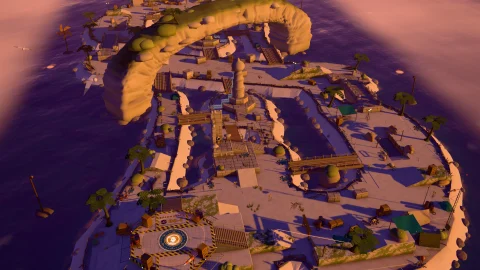
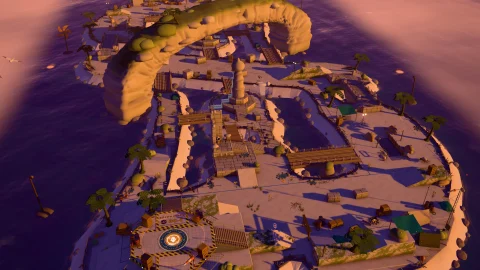
Spirhalite Islands, the stretch: the tower track reordered — through the dig's trench and over the dig bridge (widened to 4 m) onto the tide-pool islet's shelf, checkpoint 2 there at 110.9 of 177.3 m (63 %), then the detour loop after it: off the shelf, west along the lagoon's south beach, round the

diff --git a/src/world/stages/spirhalite/props.js b/src/world/stages/spirhalite/props.js
@@ -182,8 +182,8 @@ const RAW = [
   { type: 'spirhalite_ropebridge', pos: [ROPE.x, 0, ROPE.z0], rotY: Math.PI, L: +(ROPE.z0 - ROPE.z1).toFixed(2), y0: 0, y1: 1.3, w: ROPE.w, seed: 61 },
   { type: 'spirhalite_watchpost', pos: [(WATCH.post[0] + WATCH.post[1]) / 2, 1.3, (WATCH.post[2] + WATCH.post[3]) / 2], rotY: 0, w: WATCH.post[1] - WATCH.post[0], d: WATCH.post[3] - WATCH.post[2], y0: 1.3, y1: 2.5,
     stub: WATCH.stub.map(([x0, x1, z0, z1, y0, y1]) => { const cx = (WATCH.post[0] + WATCH.post[1]) / 2, cz = (WATCH.post[2] + WATCH.post[3]) / 2; return [x0 - cx, x1 - cx, z0 - cz, z1 - cz, y0 - 1.3, y1 - 1.3]; }) },
-  { type: 'spirhalite_rockpool', pos: [-6.2, 0, -39.6], rotY: 0.3, w: 1.9, d: 1.2, seed: 3 },
-  { type: 'spirhalite_rockpool', pos: [-5.3, 0, -44.2], rotY: -0.5, w: 1.3, d: 0.9, seed: 7 },
+  { type: 'spirhalite_rockpool', pos: [-5.2, 0, -43.4], rotY: 0.3, w: 1.9, d: 1.2, seed: 3 },
+  { type: 'spirhalite_rockpool', pos: [-9.6, 0, -45.9], rotY: -0.5, w: 1.3, d: 0.9, seed: 7 },
   { type: 'spirhalite_rockpool', pos: [0.5, 1.3, -38.25], rotY: 0.1, w: 1.5, d: 0.95, seed: 11 },
   { type: 'spirhalite_rockpool', pos: [7.1, 0, -43.9], rotY: 1.2, w: 1.2, d: 0.8, seed: 5 },
   { type: 'spirhalite_rock', pos: [-6.0, 0, -36.9], rotY: 0.8, w: 1.5, h: 0.8, seed: 31, moss: true },
@@ -191,7 +191,7 @@ const RAW = [
   { type: 'spirhalite_stones', pos: [-5.1, 0, -29.0], rotY: 0, nosnap: true, pts: [[0, 0], [0.3, -0.9], [-0.2, -1.9], [0.2, -2.8], [-0.1, -3.8], [0.35, -4.7]] },
   { type: 'spirhalite_kelp', pos: [-4.4, 0, -33.0], rotY: 1.6, seed: 12, L: 1.4 },
   { type: 'spirhalite_grass', pos: [0.9, 1.3, -41.2], n: 4, r: 0.5, seed: 31 },
-  { type: 'spirhalite_pompoms', pos: [-6.6, 0, -42.0], n: 5, seed: 31 },
+  { type: 'spirhalite_pompoms', pos: [-6.2, 0, -44.8], n: 5, seed: 31 },
   { type: 'spirhalite_lantern', pos: [-1.0, 1.3, -34.4], rotY: -0.4 },
 
   // the shelf is the watch-post's old stone terrace on the islet's rocks: boulders along its foot at the notch and on
@@ -199,7 +199,7 @@ const RAW = [
   ...[[-0.8, -33.5, 1.3, 0.55], [1.9, -33.4, 1.0, 0.5], [3.6, -33.3, 1.5, 0.6], [5.4, -33.5, 1.2, 0.6], [6.5, -35.2, 1.1, 0.7], [6.6, -37.4, 1.4, 0.6], [6.5, -39.8, 1.0, 0.7], [6.5, -41.6, 1.2, 0.55]]
     .map(([x, z, w, h], i) => ({ type: 'spirhalite_rock', pos: [x, -0.35, z], rotY: i * 1.3, w, h, seed: 61 + i, nocol: true, nosnap: true, color: '#b5ae9f' })),
   { type: 'spirhalite_rock', pos: [-1.9, 0, -35.4], rotY: 0.4, w: 0.8, h: 0.6, seed: 71, nocol: true },
-  { type: 'spirhalite_shrub', pos: [5.2, 1.3, -41.4], rotY: 0.3, w: 1.0, h: 0.7, seed: 21, nocol: true },
+  { type: 'spirhalite_shrub', pos: [-0.9, 1.3, -41.6], rotY: 0.3, w: 1.0, h: 0.7, seed: 21, nocol: true },
   { type: 'spirhalite_grass', pos: [-0.3, 0, -45.9], n: 5, r: 0.7, seed: 33 },
   { type: 'spirhalite_pompoms', pos: [3.0, 0, -44.9], n: 5, seed: 33 },
 
@@ -212,16 +212,16 @@ const RAW = [
   { type: 'spirhalite_spoil', pos: [-30.0, 0, -40.2], rotY: Math.PI / 2 - 0.08, L: 2.3, W: 1.3, h: 1.0, seed: 5 },
   { type: 'spirhalite_spoil', pos: [-24.5, 0, -35.2], rotY: Math.PI / 2 + 0.1, L: 2.4, W: 1.3, h: 1.05, seed: 8 },
   { type: 'spirhalite_sieve', pos: [-24.5, 0, -41.2], rotY: Math.PI / 2 },
-  { type: 'spirhalite_barrow', pos: [-24.4, 0, -44.4], rotY: -Math.PI / 2 + 0.3 },
+  { type: 'spirhalite_barrow', pos: [-31.0, 0, -43.8], rotY: -Math.PI / 2 + 0.3 },
   { type: 'spirhalite_tarp', pos: [-22.6, 0, -27.7], rotY: 0.04, w: 3.2, d: 2.8, h: 2.3 },
   { type: 'spirhalite_table', pos: [-22.6, 0, -27.9], rotY: 0.04 },
   { type: 'spirhalite_crates', pos: [-20.4, 0, -29.6], rotY: 0.3, layout: [[0, 0, 0, 0], [0.05, 0, 1, 0.08]] },
-  { type: 'spirhalite_worklight', pos: [-26.8, 0, -28.9], rotY: -2.6, h: 2.3, tilt: 0.55 },
+  { type: 'spirhalite_worklight', pos: [-25.0, 0, -30.4], rotY: -2.9, h: 2.3, tilt: 0.55 },
   { type: 'spirhalite_worklight', pos: [-31.8, 1.3, -48.8], rotY: 0.2, h: 2.2, tilt: 0.5 },
   { type: 'spirhalite_survey', pos: [-20.2, 0, -36.4], rotY: 1.9 },
   { type: 'spirhalite_lantern', pos: [-30.0, 0, -37.0], rotY: 0.2 },
   { type: 'spirhalite_lantern', pos: [-24.5, 0, -38.3], rotY: 3.3 },
-  { type: 'spirhalite_pathlights', pos: [0, 0, 0], rotY: 0, nosnap: true, pts: [[-24.6, -31.4], [-24.4, -45.3], [-30.1, -30.4], [-30.1, -43.4], [-5.9, -35.0], [-5.6, -46.2], [2.4, -46.6]] },
+  { type: 'spirhalite_pathlights', pos: [0, 0, 0], rotY: 0, nosnap: true, pts: [[-24.6, -31.4], [-24.4, -45.3], [-30.1, -30.4], [-30.1, -43.4], [-5.9, -35.0], [-5.6, -45.4], [2.4, -45.6]] },
   { type: 'spirhalite_rockpool', pos: [-35.2, 0, -33.6], rotY: 1.4, w: 1.3, d: 0.9, seed: 13 },
   { type: 'spirhalite_rockpool', pos: [-35.1, 0, -41.4], rotY: 1.2, w: 1.5, d: 0.9, seed: 17 },
   { type: 'spirhalite_palm', pos: [-35.0, 0, -37.6], rotY: 0, h: 3.9, lean: 1.2, seed: 27 },
@@ -233,7 +233,7 @@ const RAW = [
   { type: 'spirhalite_grass', pos: [1.2, 0, -50.2], n: 6, r: 0.9, seed: 57 },
   { type: 'spirhalite_grass', pos: [-6.4, 0, -51.6], n: 4, r: 0.6, seed: 58 },
   { type: 'spirhalite_pompoms', pos: [-1.6, 0, -49.0], n: 5, seed: 57 },
-  { type: 'spirhalite_kelp', pos: [-9.8, 0, -49.2], rotY: 0.1, seed: 16, L: 1.8 },
+  { type: 'spirhalite_kelp', pos: [-12.6, 0, -46.0], rotY: 0.1, seed: 16, L: 1.8 },
 
   // the spoil heap's faces softened by sand slumped against them (dressing: no collider)
   { type: 'spirhalite_spoil', pos: [-30.9, 0, -49.8], rotY: 0.05, L: 2.6, W: 1.0, h: 0.8, seed: 12, nocol: true },
@@ -266,7 +266,7 @@ const RAW = [
   // and camp crates along the camp islet's north beach (the tower's run between them), a rock on the camp's crest, a
   // rock on the neck and on the spit's root
   { type: 'spirhalite_crates', pos: [-29.3, 1.3, -48.3], rotY: 0.15, layout: [[0, 0, 0, 0], [0.04, 0, 1, 0.1]] },
-  { type: 'spirhalite_rock', pos: [-13.2, -0.3, -44.5], rotY: 0.5, w: 1.9, h: 1.1, seed: 47, moss: true, nosnap: true },
+  { type: 'spirhalite_rock', pos: [-13.2, -0.3, -43.1], rotY: 0.5, w: 1.4, h: 1.4, seed: 47, moss: true, nosnap: true },
   { type: 'spirhalite_crates', pos: [-18.6, 0, -54.6], rotY: 0.08, layout: [[0, 0, 0, 0], [1.02, 0.05, 0, 0.06], [0.5, 0.02, 1, 0.1]] },
   { type: 'spirhalite_drums', pos: [-7.8, 0, -55.1], rotY: 0.4 },
   { type: 'spirhalite_rock', pos: [-16.54, 2.5, -61.2], rotY: 0.7, w: 1.3, h: 0.95, seed: 49, moss: true },
@@ -345,9 +345,9 @@ const pairs = (pts) => pts.slice(1).map((q, i) => [pts[i], q]);
 let seedK = 100;
 for (const [a, b] of [
   ...pairs([[-32.6, -23.2], ...DIG_SEA, sh(-35.4, -31.4)]),
-  ...pairs([TIDE_W[3], TIDE_W[4], ...DIG_LAGOON.slice(0, 3)]), ...pairs([...DIG_LAGOON.slice(4), [-17.8, -24.4]]),
-  [[-6.58, -43.8], TIDE_W[3]], [DIG_LAGOON[2], [-18.4, -43.8]], [[-19.08, -40.2], DIG_LAGOON[4]],   // (parted for the dig bridge's landings, z −43.6 … −40.4)
-  [TIDE_W[0], [-8.04, -40.2]],
+  ...pairs([TIDE_W[2], TIDE_W[3], ...DIG_LAGOON.slice(0, 4)]), ...pairs([...DIG_LAGOON.slice(5), [-17.8, -24.4]]),
+  [[-7.52, -42.2], TIDE_W[2]], [DIG_LAGOON[3], [-18.72, -42.1]], [[-19.27, -37.8], DIG_LAGOON[5]],   // (parted for the dig bridge's landings, z −42 … −38)
+  [TIDE_W[0], [-8.13, -37.8]],
   [PILLAR_S[0], [0.1, -27.79]], [[2.7, -27.1], PILLAR_S[2]], [PILLAR_S[2], PILLAR_S[3]],   // (parted for the rope bridge's foot and the east bay's bridge)
   [[-1.5, -34.16], TIDE_E[6]],                                                                                   // (the notch's beach west of the shelf)
   [sh(5.4, -22.4), TIDE_E[0]],                                                                                   // (the east bay's head, west of the old one)

diff --git a/src/world/stages/spirhalite/layout.js b/src/world/stages/spirhalite/layout.js
@@ -96,8 +96,9 @@ export const WATCH = {
 };
 export const ROPE = { x: 1.4, z0: -26.0, z1: -33.9, w: 2.2 };
 // the dig's log bridge across the lagoon to the tide-pool islet's west beach (runs along x: z, x0 … x1, width) — the
-// slice's cross link: the bend's lane to the strategic point without going round by the camp
-export const DIGBRIDGE = { z: -42.0, x0: -19.4, x1: -7.0, w: 3.2 };
+// slice's cross link: the bend's lane to the strategic point without going round by the camp; 4 m wide like the
+// pillar's bridge (the tower crosses it: 3 m between its side logs)
+export const DIGBRIDGE = { z: -40.0, x0: -19.6, x1: -7.2, w: 4.0 };
 // the east bay's log bridge from the Arch spit's bay side to the pillar islet's south-east shore (the side zone's east
 // way in: the stretch put water between the zone and the tail, this gives it back the spit lane's approach)
 export const BAYBRIDGE = { z: -23.2, x0: 4.4, x1: 11.6, w: 3.2 };
@@ -242,8 +243,8 @@ const SPIRHALITE = {
     O(-16.2, -50.25, 2.1, 1.1, 0, 1.1, 4, stone({ tag: 'fallen-drum' })),
     O(-11.6, -50.4, 2.0, 1.1, 0, 1.1, -6, stone({ tag: 'fallen-drum' })),
 
-    // ================= the spit's root (the stretch): a low dune along it
-    ...dune(16.8, -36.4, 4.2, 0.9, 76, { crest: 0.8 }),
+    // ================= the spit's root (the stretch): a low dune across it (you walk over it; its ends at the kerbs)
+    ...dune(16.4, -37.0, 4.6, 0.9, -14, { crest: 0.8 }),
   ],
   // Zone Control: the sandbar under the arch; the pillar headland (Alpha's): the sand round the plinth and the plinth's
   // top (the tier above is out of the count), the tombolo to the steps' foot. ~100 m²; its floor's centroid (−1.5,
@@ -254,15 +255,16 @@ const SPIRHALITE = {
   },
   // Tower Command (authored on Bravo's side, z > 0: Alpha pushes along it), zig-zagging along the S: along the central
   // sandbar and the mid islet's north shore to the bend's head, CLIMB the causeway's sheer end (checkpoint 1 at its
-  // foot), along the causeway over the inlet, DROP off its broken end into the dig; then (the stretch: its detour loops)
-  // round the dig — out along the sea shore, back up the trench (down its ramp into it, up the other out), down the
-  // lagoon shore — along the camp islet's north beach to the tide-pool islet, up its west side and CLIMB onto the shelf
-  // (checkpoint 2 under the watch-post), across it and DROP off its south face to the goal at the islet's foot, 13 m
-  // short of the pad. Two checkpoints: the track is twice the first drawing's 88 m (tower.js: 80 s of it at 1.5× speed)
+  // foot), along the causeway over the inlet, DROP off its broken end into the dig; then (the stretch) down through the
+  // trench (down its ramp into it, up the other out), over the dig bridge to the tide-pool islet and CLIMB onto the
+  // shelf (checkpoint 2 under the watch-post, ~64 % of the way); then its detour loop: DROP off the shelf's south face,
+  // back west along the lagoon's south beach, round the dig's south corner and east again along the camp islet's north
+  // beach (the fallen blocks between the two runs) to the goal below the helipad's west stair, 13 m short of the pad.
+  // Two checkpoints: the track is twice the first drawing's 88 m (tower.js: 80 s of it at 1.5× speed)
   tower: {
-    path: [[0, 0], [10, 0], [10, 3], [29, 3], [29, 27.8], [32.25, 27.8], [32.25, 45], [27.25, 45], [27.25, 31], [22.25, 31],
-      [22.25, 52.41], [3, 52.41], [3, 40.3], [-4.2, 40.3], [-4.2, 47.5]],
-    checkpoints: [[29, 8], [-1.5, 40.3]],
+    path: [[0, 0], [10, 0], [10, 3], [29, 3], [29, 27.8], [27.25, 27.8], [27.25, 44], [22, 44], [22, 40], [-4.2, 40],
+      [-4.2, 47.5], [21.5, 47.5], [21.5, 52.41], [-1.56, 52.41]],
+    checkpoints: [[29, 8], [-0.3, 40]],
   },
   // match intro: opens over the lagoon beside the cascade pillar looking at the tide-pool islet's watch-post (its broken
   // stub, the rope bridge, the ford), then pulls back over it to your pad

diff --git a/src/world/stages/spirhalite/outline.js b/src/world/stages/spirhalite/outline.js
@@ -37,8 +37,8 @@ export const TIDE_E = [[8.0, -42.6], [6.6, -41.4], [6.4, -38.4], [6.9, -35.6], [
 export const FORD_E = [[-3.6, -32.4], [-3.6, -29.6]];                                                                       // the ford's east edge
 export const PILLAR_S = [[-1.6, -28.0], [1.6, -27.6], [3.8, -26.6], [5.0, -24.8], [5.3, -23.0]];                           // the pillar islet's south shore
 export const FORD_W = [[-7.3, -28.4], [-6.6, -29.8], [-6.6, -32.4], [-7.4, -34.4]];                                        // the ford's west edge
-export const TIDE_W = [[-8.2, -36.6], [-8.0, -41.0], [-6.6, -43.4], [-6.4, -45.6], [-8.2, -47.6]];                         // the tide-pool islet: west shore, the tombolo
-export const DIG_LAGOON = [[-11.4, -48.4], [-14.6, -47.8], [-17.2, -46.2], [-18.6, -43.4], [-19.2, -39.4], [-19.4, -35.0], [-19.2, -31.0], [-18.6, -27.6]];   // the lagoon's south end, the dig's lagoon shore
+export const TIDE_W = [[-8.2, -36.6], [-8.0, -40.6], [-7.4, -42.6], [-8.6, -44.2]];                                         // the tide-pool islet: west shore, the tombolo
+export const DIG_LAGOON = [[-11.4, -44.8], [-14.4, -44.9], [-17.0, -44.2], [-18.6, -42.8], [-19.2, -39.4], [-19.4, -35.0], [-19.2, -31.0], [-18.6, -27.6]];   // the lagoon's south end, the dig's lagoon shore
 
 export const CHAIN = [
   [1.0, 7.6], [-4.0, 5.6], [-8.0, 3.9], [-12.0, 2.6], [-16.0, 1.4], [-20.0, 0.6], [-24.0, 0.2], [-28.0, -0.4],   // mid islet: north shore
